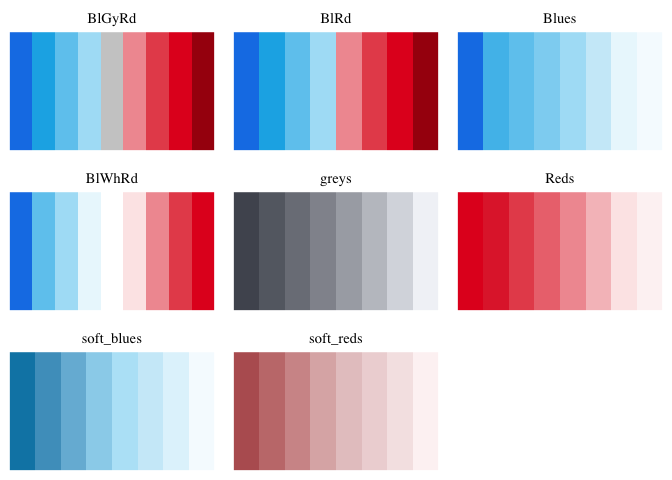
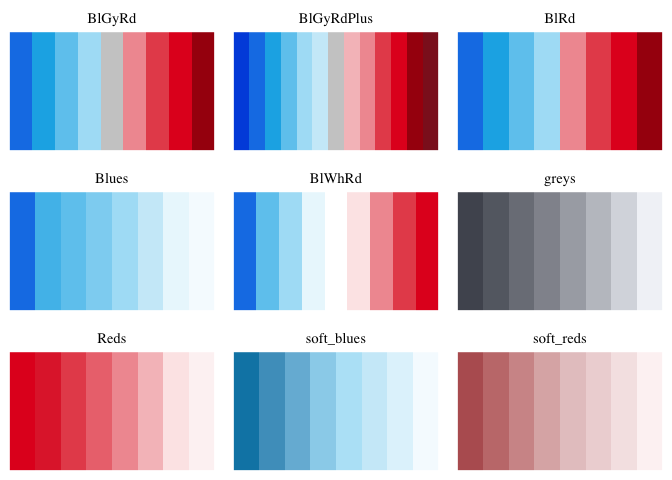
BlGyRdPlus

diff --git a/README.md b/README.md
@@ -4,6 +4,7 @@
 # iddoPal
 
 <!-- badges: start -->
+
 <!-- badges: end -->
 
 Colour palettes for R inspired by the [Infectious Diseases Data
@@ -35,7 +36,7 @@ devtools::install_github("lu-harr/iddoPal")
 library(iddoPal)
 ```
 
-`iddoPal` comes with 5 discrete colour palettes and 8 sequential colour
+`iddoPal` comes with 5 discrete colour palettes and 9 sequential colour
 palettes, which can be accessed from the following R objects:
 
 - `iddo_palettes_discrete` for discrete palettes
@@ -87,7 +88,7 @@ Palettes can be subset using `[`, `[[`, and `$`.
   ``` r
   names(iddo_palettes_sequential)
   #> [1] "Blues"      "Reds"       "soft_blues" "soft_reds"  "greys"     
-  #> [6] "BlWhRd"     "BlRd"       "BlGyRd"
+  #> [6] "BlWhRd"     "BlRd"       "BlGyRd"     "BlGyRdPlus"
   ```
 
 ## Demonstration
@@ -125,6 +126,52 @@ legend("bottomright",
 ```
 
 <img src="man/figures/README-demo-2.png" width="100%" />
+
+I’ve found the `BlGyRd` palette to be very handy for cases where we need
+a diverging palette with clear extremes and midpoint, but I’ve added
+`BlGyRdPlus` for even more variation either side of the middle:
+
+``` r
+library(ggplot2)
+library(dplyr)
+#> 
+#> Attaching package: 'dplyr'
+#> The following objects are masked from 'package:stats':
+#> 
+#>     filter, lag
+#> The following objects are masked from 'package:base':
+#> 
+#>     intersect, setdiff, setequal, union
+library(cowplot)
+
+p1 <- ggplot(faithfuld %>%
+         mutate(density = density - min(density),
+                density = density / max(density)),
+       aes(waiting, eruptions)) +
+  geom_raster(
+    aes(fill = density)
+  ) +
+  scale_fill_gradientn(
+    colours = iddo_palettes$BlGyRd
+  )
+
+p2 <- ggplot(faithfuld %>%
+         mutate(density = density - min(density),
+                density = density / max(density)),
+       aes(waiting, eruptions)) +
+  geom_raster(
+    aes(fill = density)
+  ) +
+  scale_fill_gradientn(
+    colours = iddo_palettes$BlGyRdPlus
+  )
+
+plot_grid(p1, p2)
+```
+
+<img src="man/figures/README-demo_plus-1.png" width="100%" />
+
+… let’s see how that goes
 
 ## License
 
